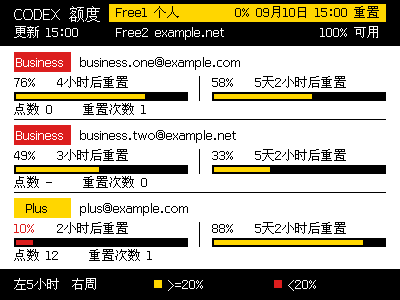
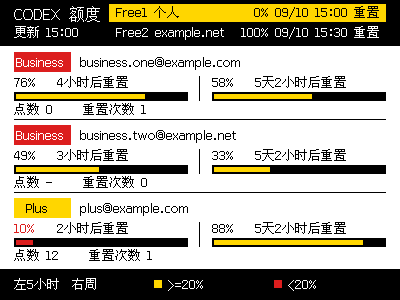
满额时也显示 Free 账号重置时间

Changed region(s): [[0.6, 0.09, 0.96, 0.15], [0.57, 0.03, 0.78, 0.06]]

diff --git a/relay/src/quota_relay.rs b/relay/src/quota_relay.rs
@@ -757,12 +757,9 @@ fn format_free_quota(window: Option<(u8, i64)>, now: i64) -> String {
     if resets_at <= now {
         return "重置待确认".into();
     }
-    if remaining == 100 {
-        return "100% 可用".into();
-    }
     let time = local_tm(resets_at);
     format!(
-        "{remaining}% {:02}月{:02}日 {:02}:{:02} 重置",
+        "{remaining}% {:02}/{:02} {:02}:{:02} 重置",
         time.tm_mon + 1,
         time.tm_mday,
         time.tm_hour,
@@ -1166,7 +1163,9 @@ mod tests {
             format_free_quota(free[0].window, 1_789_023_600),
             "重置待确认"
         );
-        assert_eq!(format_free_quota(free[1].window, now), "100% 可用");
+        let full = format_free_quota(free[1].window, now);
+        assert!(full.starts_with("100% "));
+        assert!(full.ends_with(" 重置"));
         assert!(free[0].active && !free[1].active);
 
         registry.active_account_key = Some("free-b".into());

diff --git a/README.zh-CN.md b/README.zh-CN.md
@@ -70,7 +70,7 @@ sequenceDiagram
 - 强制刷新依据本次 API 结果，三个付费账号都成功才发布。Free 账号刷新失败时，付费画面仍可更新。
 - 每个账号左半段显示 5 小时剩余百分比、重置倒计时和进度条，右半段显示周剩余百分比、重置倒计时和进度条。
 - 点数和重置次数缺失时显示 `-`，收到零值时显示 `0`。
-- 每个 Free 账号分别显示额度。额度尚未使用时显示「100% 可用」，已有使用量时显示剩余百分比和重置日期，已到重置时间但尚未取得新额度时显示「重置待确认」。
+- 每个 Free 账号分别显示剩余百分比和重置日期、时间，剩余 100% 时也显示。已到重置时间但尚未取得新额度时显示「重置待确认」。
 - Free 账号按邮箱和账号标识排序，切换账号时编号不变。显示名称优先取 `accountLabels`、`codex-auth` 别名、邮箱域名。超过 2 个时优先显示当前选中的 Free，更新时间旁用 `+N` 标出其余数量。
 - 5 小时或周额度窗口缺失、字段无效时保留上一张成功画面。
 - NOTE4C 默认每 5 分钟检查一次，但只有 revision 改变才全刷墨水屏。
